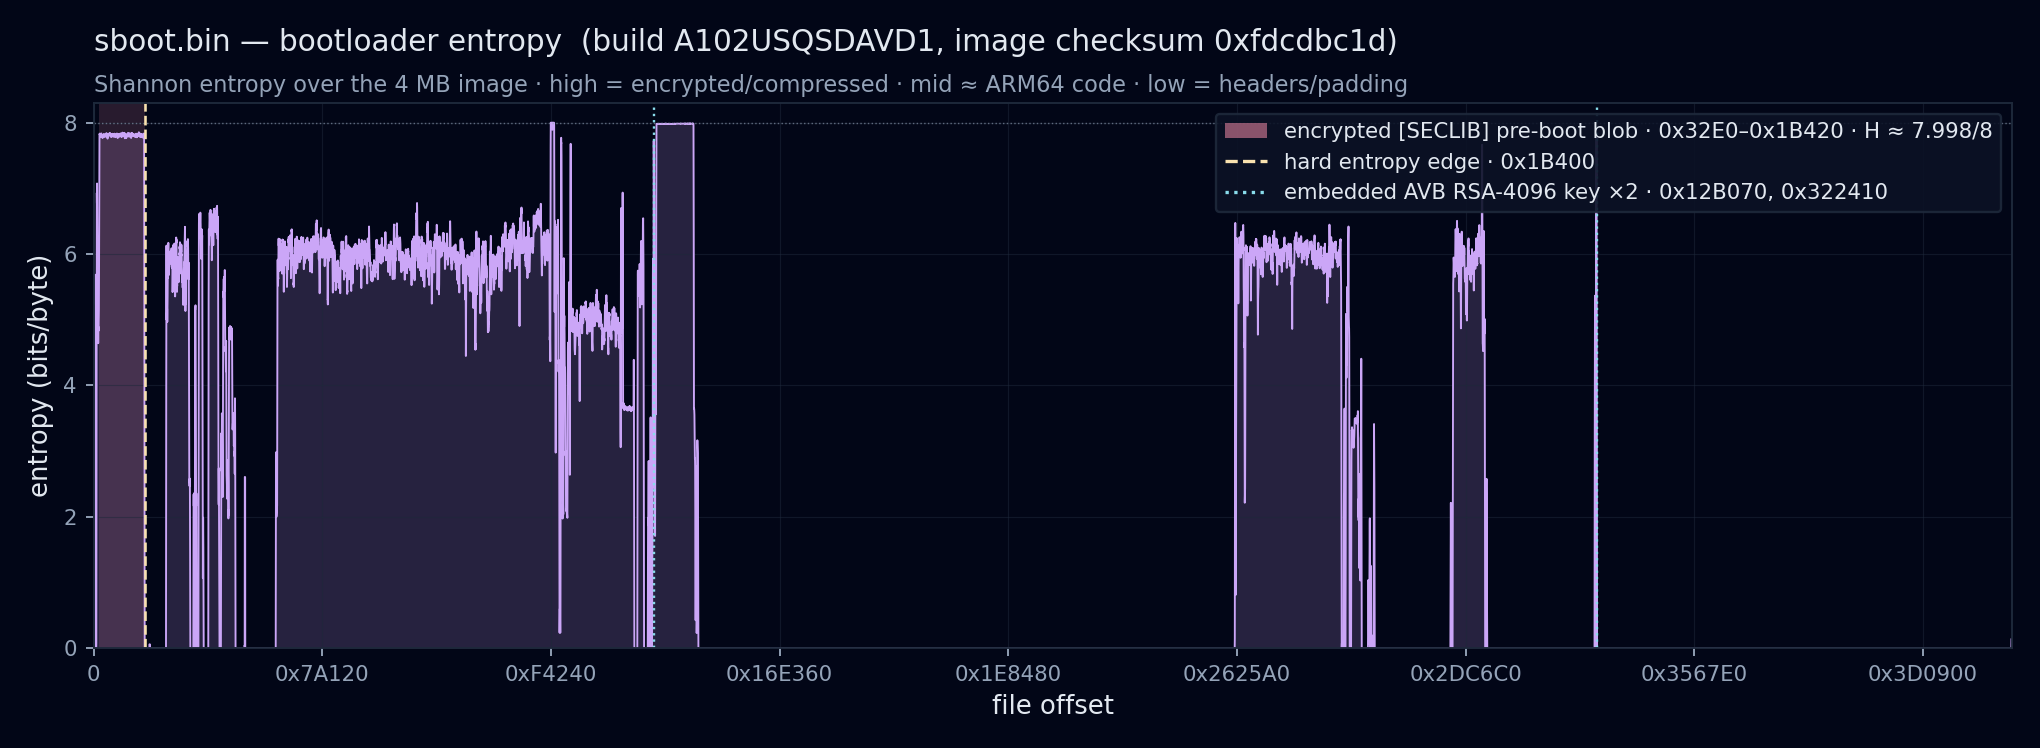
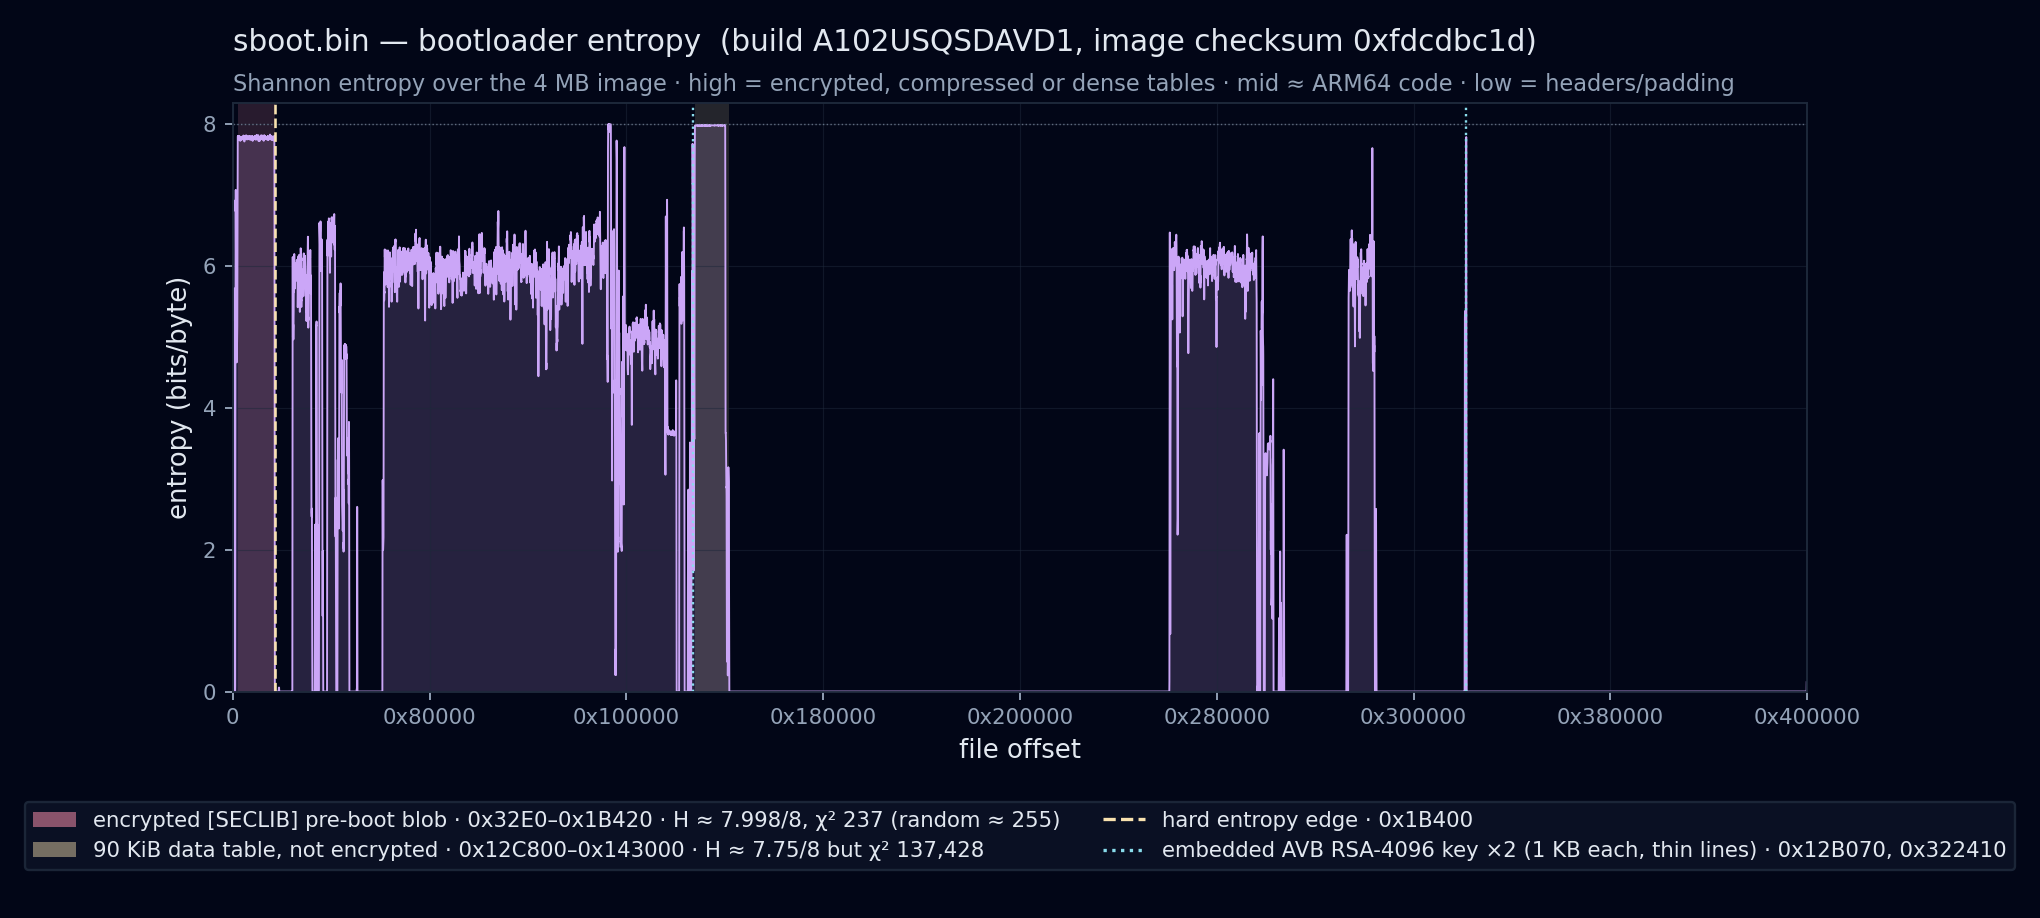
entropy plot: shade and label the 90 KiB data table at 0x12c800 (high Shannon but chi-square 137k, so structured, not encrypted), show the blob's chi-square for contrast, mark the AVB keys as 1 KB thin lines, move the legend under the plot so it stops hiding the second key, 512 KiB hex ticks; the ov

diff --git a/tools/entropy_plot.py b/tools/entropy_plot.py
@@ -32,6 +32,11 @@ def block_entropy(data, a, b):
     c=np.bincount(seg, minlength=256).astype(np.float64); p=c[c>0]/seg.size
     return -(p*np.log2(p)).sum()
 
+def chi2(data, a, b):
+    seg=np.frombuffer(data, dtype=np.uint8)[a:b]
+    c=np.bincount(seg, minlength=256).astype(np.float64); e=seg.size/256
+    return float(((c-e)**2/e).sum())
+
 def load(p):
     with open(p,"rb") as f: return f.read()
 
@@ -42,6 +47,8 @@ def style_ax(ax, size):
     ax.set_ylim(0,8.3); ax.set_xlim(0,size); ax.set_yticks([0,2,4,6,8])
     ax.grid(True, lw=0.5, alpha=0.5)
     ax.xaxis.set_major_formatter(FuncFormatter(hexfmt)); ax.tick_params(labelsize=9)
+    step=0x80000 if size>=0x200000 else max(0x1000, 1<<(size//8).bit_length()-1)
+    ax.set_xticks(np.arange(0, size+1, step))
     for s in ax.spines.values(): s.set_linewidth(0.8)
 
 def plot_line(ax, xs, ys):
@@ -57,33 +64,40 @@ sb=load(P("sboot.bin")); size=len(sb)
 xs,ys=wentropy(sb, 1024, 256)
 a,b=0x32e0,0x1b420
 Hblock=block_entropy(sb, a, b)
-fig,ax=plt.subplots(figsize=(12,4.4), dpi=170)
+ta,tb=0x12c800,0x143000
+Htab=block_entropy(sb, ta, tb); Xtab=chi2(sb, ta, tb); Xblob=chi2(sb, a, b)
+fig,ax=plt.subplots(figsize=(12,5.4), dpi=170)
 plot_line(ax, xs, ys)
 ax.axvspan(a,b, color=ENC, alpha=0.16, lw=0)
+ax.axvspan(ta,tb, color=EDGE, alpha=0.14, lw=0)
 ax.axvline(0x1b400, color=EDGE, lw=1.1, ls="--")
 for kx in (0x12b070, 0x322410): ax.axvline(kx, color=KEY, lw=1.0, ls=":")
 style_ax(ax, size)
 ax.set_title("sboot.bin — bootloader entropy  (build A102USQSDAVD1, image checksum 0xfdcdbc1d)",
              color=FG, fontsize=12.5, pad=22, loc="left")
-ax.annotate("Shannon entropy over the 4 MB image · high = encrypted/compressed · mid ≈ ARM64 code · low = headers/padding",
+ax.annotate("Shannon entropy over the 4 MB image · high = encrypted, compressed or dense tables · mid ≈ ARM64 code · low = headers/padding",
             xy=(0,1.02), xycoords="axes fraction", color=MUTED, fontsize=9.5)
 ax.set_xlabel("file offset"); ax.set_ylabel("entropy (bits/byte)")
 handles=[
     Patch(facecolor=ENC, alpha=0.55, edgecolor="none",
-          label=f"encrypted [SECLIB] pre-boot blob · 0x32E0–0x1B420 · H ≈ {Hblock:.3f}/8"),
+          label=f"encrypted [SECLIB] pre-boot blob · 0x32E0–0x1B420 · H ≈ {Hblock:.3f}/8, χ² {Xblob:,.0f} (random ≈ 255)"),
+    Patch(facecolor=EDGE, alpha=0.45, edgecolor="none",
+          label=f"90 KiB data table, not encrypted · 0x12C800–0x143000 · H ≈ {Htab:.2f}/8 but χ² {Xtab:,.0f}"),
     Line2D([0],[0], color=EDGE, lw=1.4, ls="--", label="hard entropy edge · 0x1B400"),
-    Line2D([0],[0], color=KEY, lw=1.4, ls=":",  label="embedded AVB RSA-4096 key ×2 · 0x12B070, 0x322410"),
+    Line2D([0],[0], color=KEY, lw=1.4, ls=":",  label="embedded AVB RSA-4096 key ×2 (1 KB each, thin lines) · 0x12B070, 0x322410"),
 ]
-ax.legend(handles=handles, loc="upper right", fontsize=9, framealpha=0.9,
+ax.legend(handles=handles, loc="upper center", bbox_to_anchor=(0.5,-0.17), ncol=2, fontsize=9, framealpha=0.9,
           facecolor="#0b1225", edgecolor=GRID, labelcolor=FG)
 fig.tight_layout()
 f1=os.path.join(OUT_DIR,"entropy-sboot.png"); fig.savefig(f1); plt.close(fig)
-print("sboot whole-blob H =", round(float(Hblock),4), "->", f1)
+print("sboot whole-blob H =", round(float(Hblock),4), "chi2", round(Xblob), "| table H =", round(float(Htab),3), "chi2", round(Xtab), "->", f1)
 
 # ---------- Figure 2: clean overview ----------
 panels=[("sboot.bin","bootloader"),("cm.bin","Crypto Manager"),
         ("vbmeta.img","verified-boot table"),("param.bin","boot screens"),
         ("modem.bin","Shannon baseband"),("modem_debug.bin","modem debug")]
+if not all(os.path.exists(P(fn)) for fn,_ in panels):
+    print("overview skipped: needs all six images in", ENTROPY_DIR); sys.exit(0)
 fig,axes=plt.subplots(3,2, figsize=(13,9.5), dpi=150)
 fig.suptitle("Galaxy A10e firmware — entropy map of each partition",
              color=FG, fontsize=15, y=0.985)
